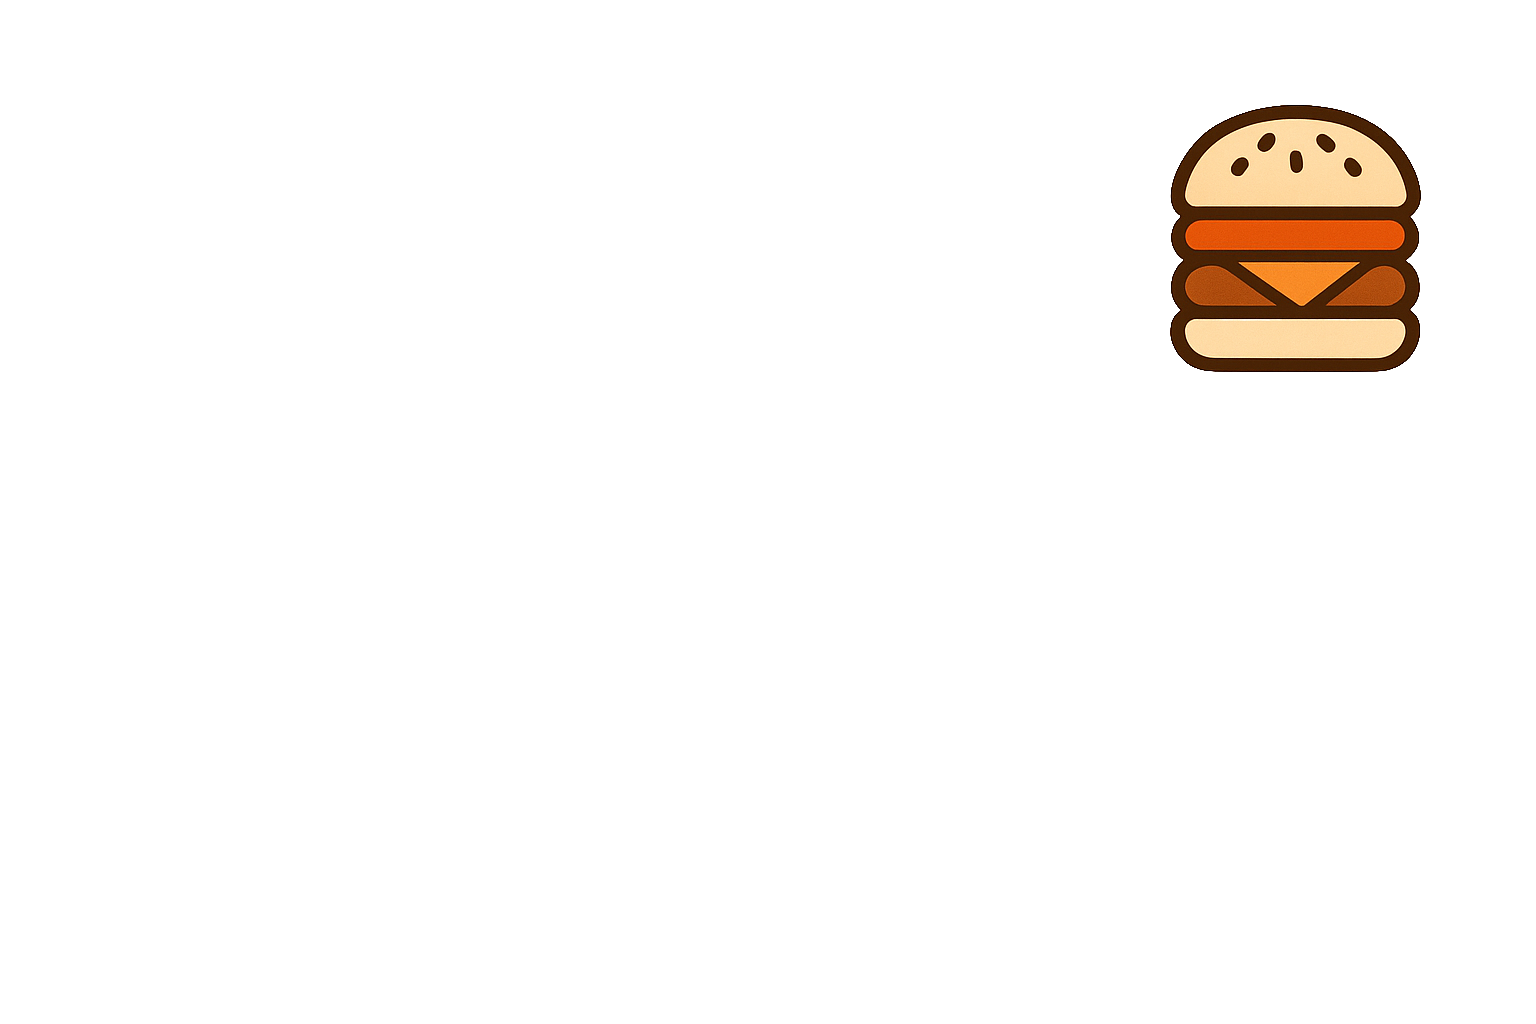
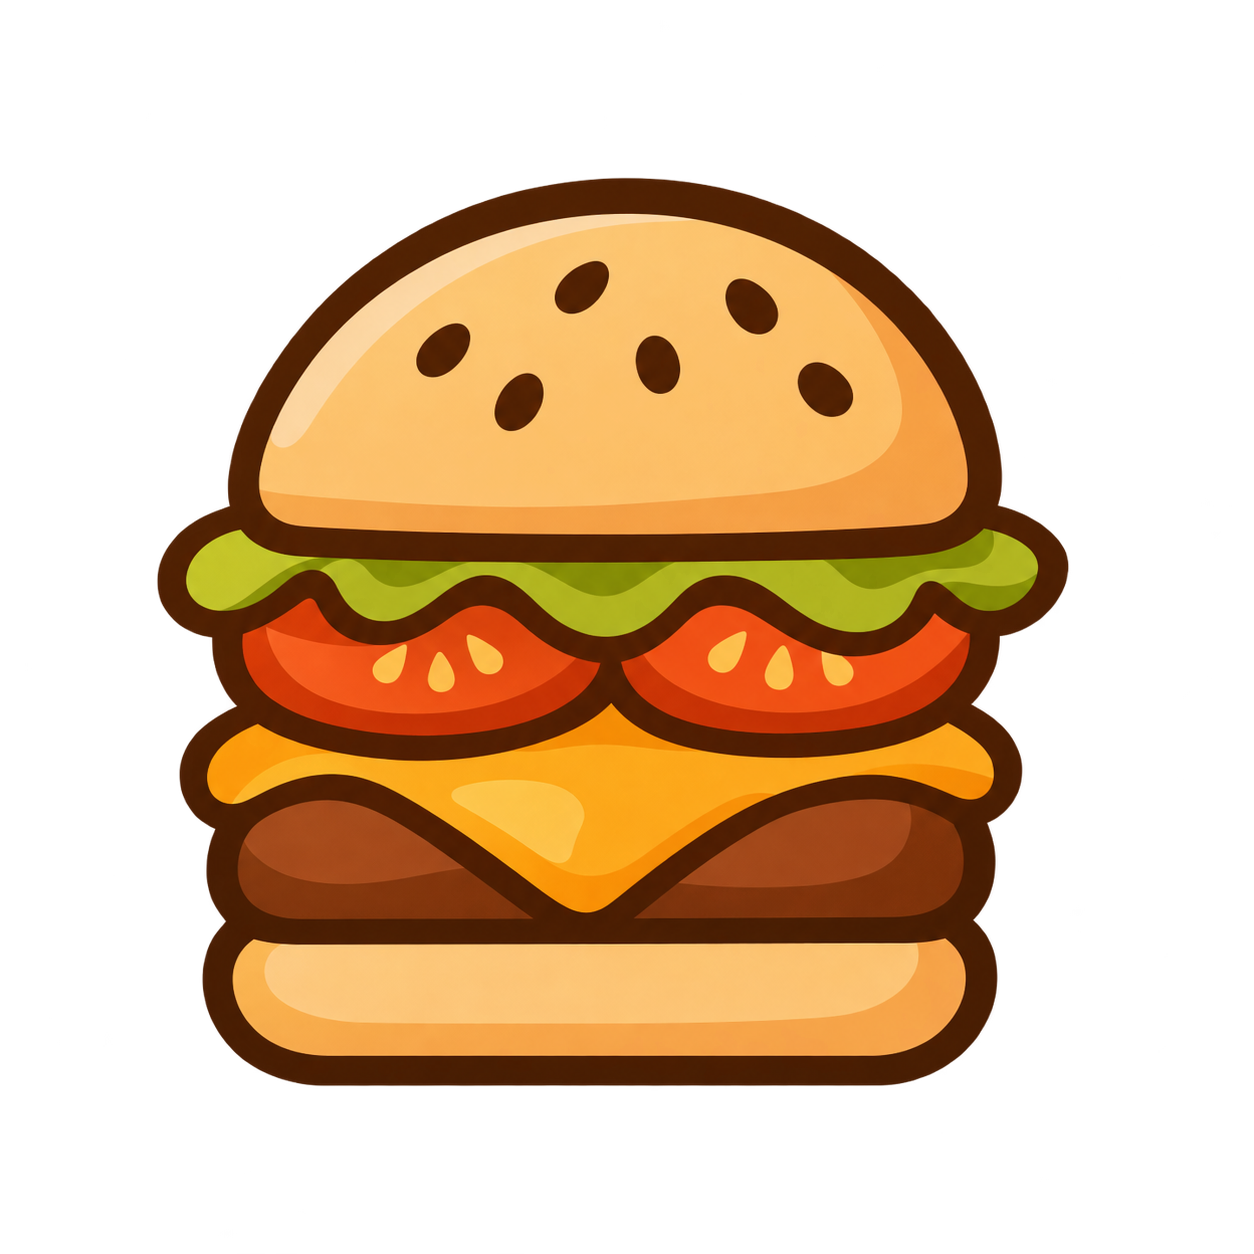
feat: meal-list & cards completed

diff --git a/index.html b/index.html
@@ -209,6 +209,69 @@
                         <h2 id="salad-heading">Salad</h2>
                     </div>
                 </div>
+
+                <div class="meal-list">
+
+                    <article class="meal-card">
+                        <img class="meal-card-image" src="./assets/img/salat_01.jpg" alt="Warm beef arugula salad">
+
+                        <div class="meal-card-info">
+                            <h3>Warm beef arugula salad</h3>
+                            <p>Beef, Arugula, Field salad, Greek feta, Cherry tomatoes, Sun-dried Tomatoes, Balsamic
+                                vinegar dressing</p>
+                        </div>
+
+                        <div class="meal-card-order">
+                            <span class="meal-price">16,90€</span>
+                            <button type="button">Add to basket</button>
+                        </div>
+                    </article>
+
+                    <article class="meal-card">
+                        <img class="meal-card-image" src="./assets/img/salat_02.jpg" alt="Mini green Salad">
+
+                        <div class="meal-card-info">
+                            <h3>Mini green Salad</h3>
+                            <p>Green salad, Cucumber, Carrots, Parsley, Radishes</p>
+                        </div>
+
+                        <div class="meal-card-order">
+                            <span class="meal-price">7,90€</span>
+                            <button type="button">Add to basket</button>
+                        </div>
+                    </article>
+
+                    <article class="meal-card">
+                        <img class="meal-card-image" src="./assets/img/salat_03.jpg" alt="Green Salad with sea food">
+
+                        <div class="meal-card-info">
+                            <h3>Green Salad with sea food</h3>
+                            <p>Mixed greens, Cherry tomatoes, Red onion, Mussels, Squid rings, Shrimp, Dijon
+                                mustard-lemon dressing with dill</p>
+                        </div>
+
+                        <div class="meal-card-order">
+                            <span class="meal-price">16,90€</span>
+                            <button type="button">Add to basket</button>
+                        </div>
+                    </article>
+
+                    <article class="meal-card">
+                        <img class="meal-card-image" src="./assets/img/salat_04.jpg" alt="Vegan green salad with tofu">
+
+                        <div class="meal-card-info">
+                            <h3>Vegan green salad with tofu</h3>
+                            <p>Green salad, Cherry tomatoes, Cucumber, Baby spinach, Edamame, Radishes, Bittercress,
+                                Tofu, Peanuts</p>
+                        </div>
+
+                        <div class="meal-card-order">
+                            <span class="meal-price">14,90€</span>
+                            <button type="button">Add to basket</button>
+                        </div>
+                    </article>
+
+                </div>
             </section>
 
         </section>
